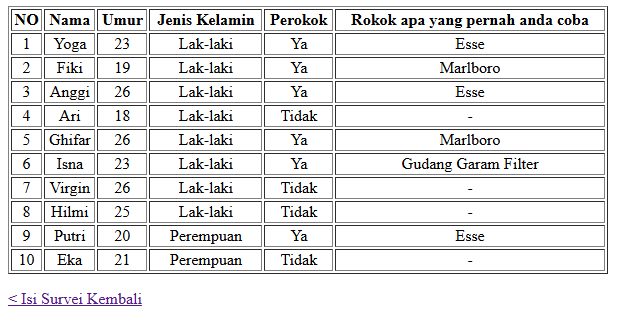
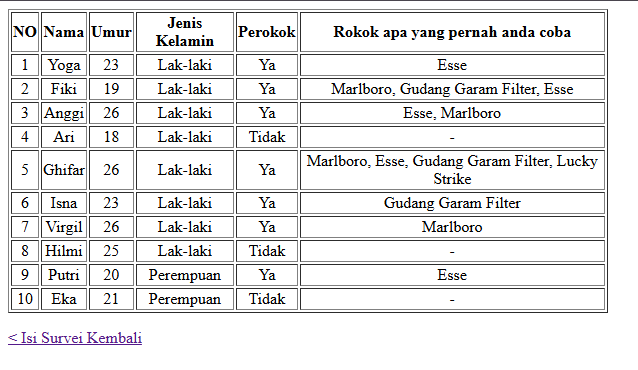
feat: Fixed survey table and replaced image in readme.md

diff --git a/pages/tabel.html b/pages/tabel.html
@@ -32,7 +32,7 @@
           <td>19</td>
           <td>Lak-laki</td>
           <td>Ya</td>
-          <td>Marlboro</td>
+          <td>Marlboro, Gudang Garam Filter, Esse</td>
         </tr>
         <tr>
                 <td>3</td>
@@ -40,7 +40,7 @@
                 <td>26</td>
                 <td>Lak-laki</td>
                 <td>Ya</td>
-                <td>Esse</td>
+                <td>Esse, Marlboro</td>
             </tr>
             <tr>
                 <td>4</td>
@@ -56,7 +56,7 @@
                 <td>26</td>
                 <td>Lak-laki</td>
                 <td>Ya</td>
-                <td>Marlboro</td>
+                <td>Marlboro, Esse, Gudang Garam Filter, Lucky Strike</td>
             </tr>
             <tr>
                 <td>6</td>
@@ -71,8 +71,8 @@
                 <td>Virgil</td>
                 <td>26</td>
                 <td>Lak-laki</td>
-                <td>Tidak</td>
-                <td>-</td>
+                <td>Ya</td>
+                <td>Marlboro</td>
             </tr>
             <tr>
                 <td>8</td>
